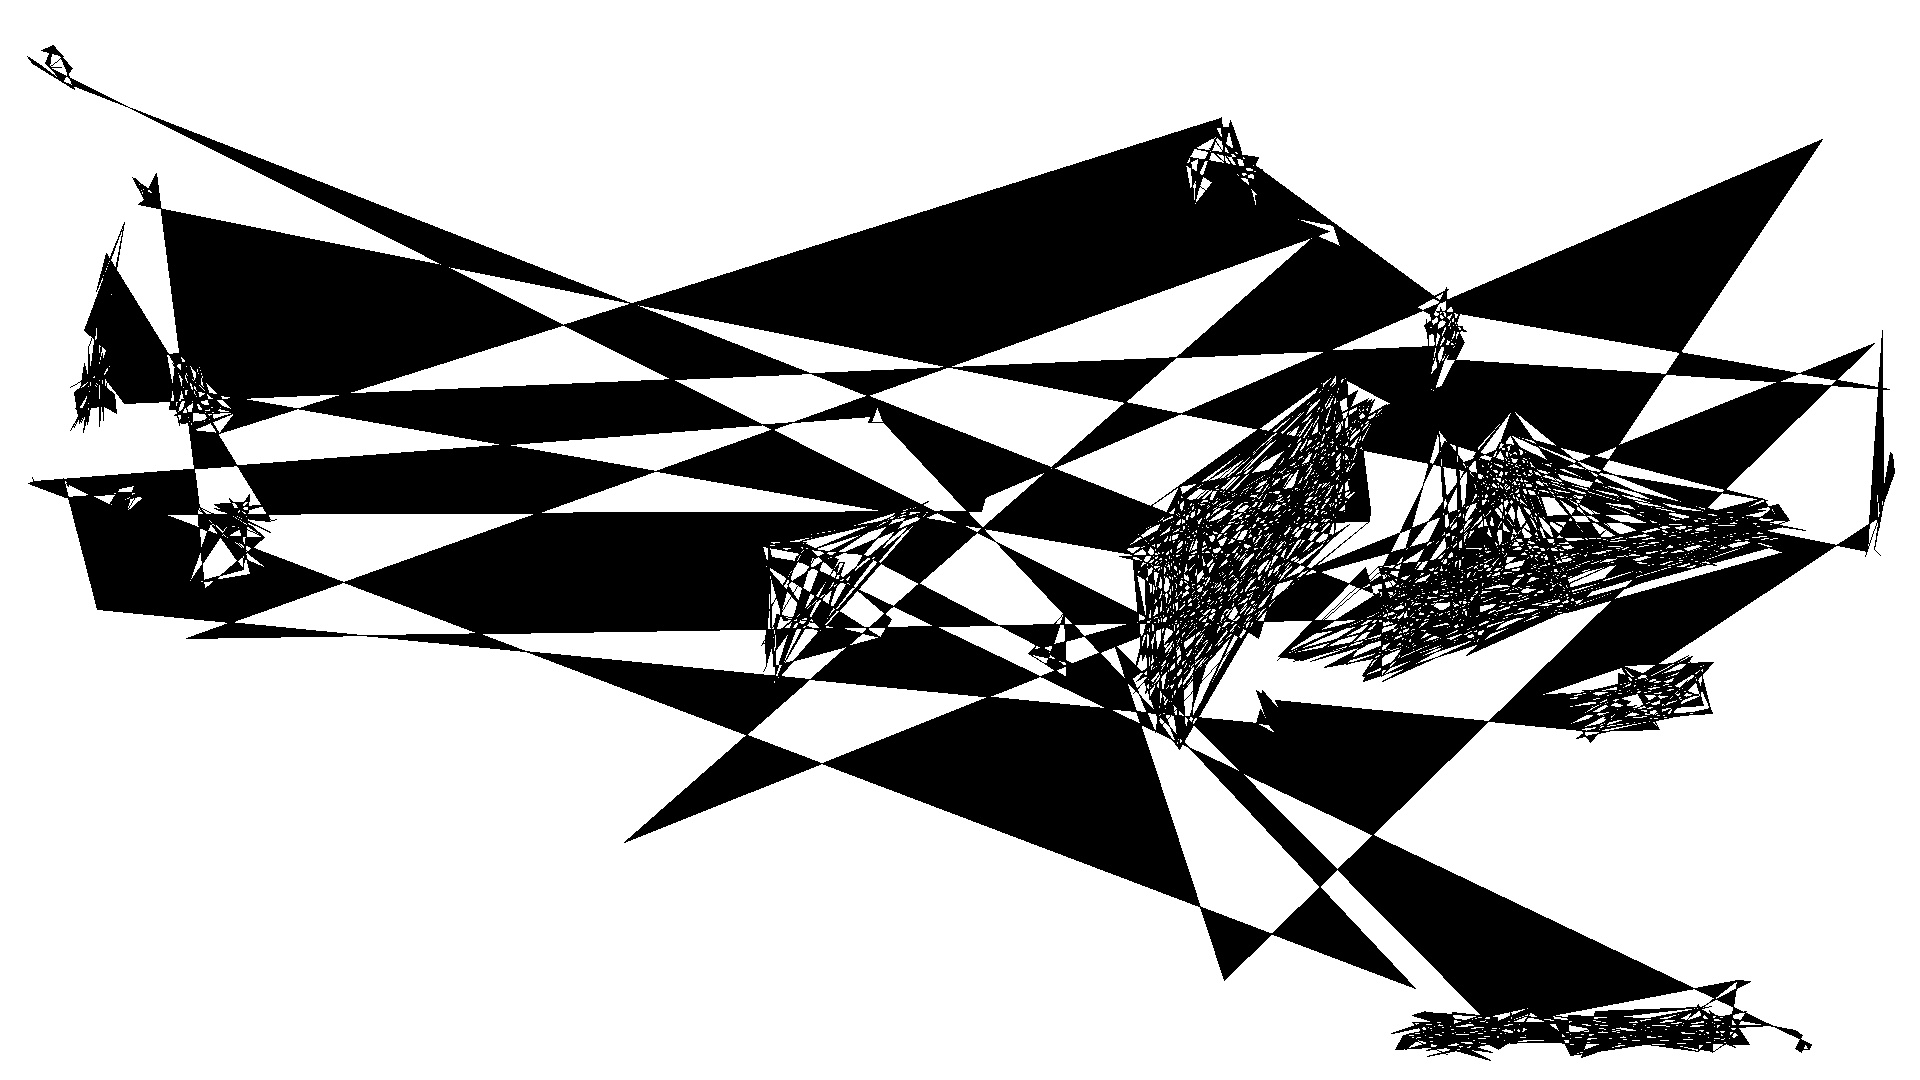
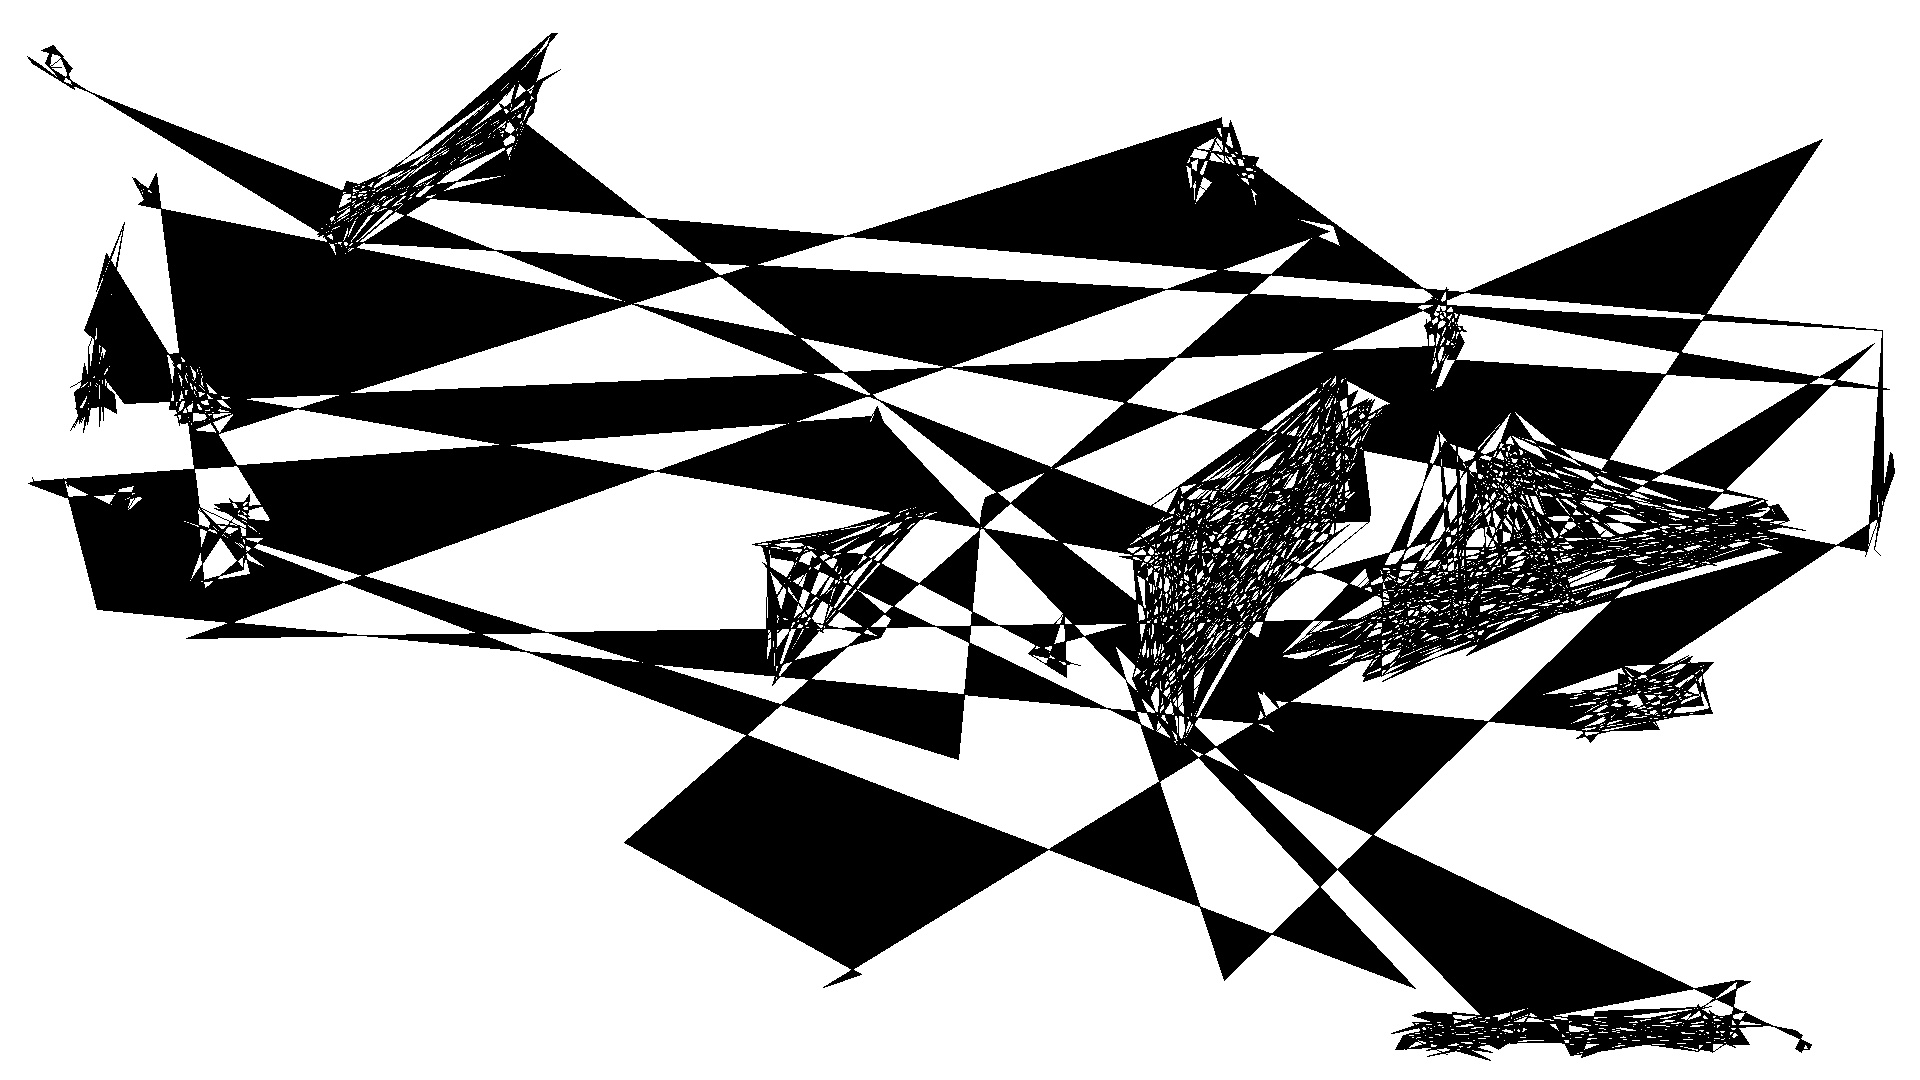
borders

Changed region(s): [[0.0625, 0.0306, 0.9688, 0.9167]]

diff --git a/Common_Image_Part_A/testofBoundery.py b/Common_Image_Part_A/testofBoundery.py
@@ -115,72 +115,139 @@ def croppedmatchingareas(clientimagepath, goodclustersarray):
 
 from functions import DB_SCAN
 
+def function():
+    img=cv2.imread("115.jpg")
+    # Constructing the input point data
+    images = np.array(img)
+    img1 = cv2.cvtColor(images, cv2.COLOR_BGR2GRAY)
+    # Initiate SIFT detector
+    surf = cv2.xfeatures2d.SURF_create()
+    # find the keypoints and descriptors with SIFT
+    kp1, des1 = surf.detectAndCompute(img1, None)
+    clusters = DB_SCAN(kp1,20)
+    x=[]
+    y=[]
 
-img=cv2.imread("115.jpg")
-# Constructing the input point data
-images = np.array(img)
-img1 = cv2.cvtColor(images, cv2.COLOR_BGR2GRAY)
-# Initiate SIFT detector
-surf = cv2.xfeatures2d.SURF_create()
-# find the keypoints and descriptors with SIFT
-kp1, des1 = surf.detectAndCompute(img1, None)
-clusters = DB_SCAN(kp1,20)
-x=[]
-y=[]
-
-for i in clusters[3]:
-    for j in i:
-        x=np.append(x,i[0])
-        y = np.append(y, i[1])
-
-
-inside = ((x ** 2 + y ** 2 > 1.0) & ((x - 3) ** 2 + y ** 2 > 1.0))
-points = np.vstack([x[inside], y[inside]]).T
-#print(points)
-# Computing the alpha shape
-edges = alpha_shape(points, alpha=16, only_outer=True)
-
-ed=stitch_boundaries(edges)
-
-'''
-from matplotlib.pyplot import *
-
-# Constructing the input point data
-np.random.seed(0)
-x = 3.0 * np.random.rand(2000)
-y = 2.0 * np.random.rand(2000) - 1.0
-inside = ((x ** 2 + y ** 2 > 1.0) & ((x - 3) ** 2 + y ** 2 > 1.0))
-points = np.vstack([x[inside], y[inside]]).T
-
-# Computing the alpha shape
-edges = alpha_shape(points, alpha=0.25, only_outer=True)
-'''
-# Plotting the output
-figure()
-axis('equal')
-plot(points[:, 0], points[:, 1], '.')
-for i, j in edges:
-    plot(points[[i, j], 0], points[[i, j], 1])
-show()
+    for i in clusters:
+        for j in i:
+            x=np.append(x,j[0])
+            y = np.append(y, j[1])
 
 
-# original image
-# -1 loads as-is so if it will be 3 or 4 channel as the original
-image = cv2.imread('115.jpg', -1)
-# mask defaulting to black for 3-channel and transparent for 4-channel
-# (of course replace corners with yours)
-mask = np.zeros(image.shape, dtype=np.uint8)
-print(ed[0])
+    inside = ((x ** 2 + y ** 2 > 1.0) & ((x - 3) ** 2 + y ** 2 > 1.0))
+    points = np.vstack([x[inside], y[inside]]).T
+    #print(points)
+    # Computing the alpha shape
+    edges = alpha_shape(points, alpha=20, only_outer=True)
 
-roi_corners = np.array([ed[0]], dtype=np.int32)
-# fill the ROI so it doesn't get wiped out when the mask is applied
-channel_count = image.shape[2]  # i.e. 3 or 4 depending on your image
-ignore_mask_color = (255,)*channel_count
-cv2.fillPoly(mask, roi_corners, ignore_mask_color)
-# from Masterfool: use cv2.fillConvexPoly if you know it's convex
+    ed=stitch_boundaries(edges)
 
-# apply the mask
-masked_image = cv2.bitwise_and(image, mask)
+    '''
+    from matplotlib.pyplot import *
+    
+    # Constructing the input point data
+    np.random.seed(0)
+    x = 3.0 * np.random.rand(2000)
+    y = 2.0 * np.random.rand(2000) - 1.0
+    inside = ((x ** 2 + y ** 2 > 1.0) & ((x - 3) ** 2 + y ** 2 > 1.0))
+    points = np.vstack([x[inside], y[inside]]).T
+    
+    # Computing the alpha shape
+    edges = alpha_shape(points, alpha=0.25, only_outer=True)
+    '''
+    # Plotting the output
+    figure()
+    axis('equal')
+    plot(points[:, 0], points[:, 1], '.')
+    for i, j in edges:
+        plot(points[[i, j], 0], points[[i, j], 1])
+    show()
 
-# save the result
-cv2.imwrite('image_masked.png', masked_image)
+
+    # original image
+    # -1 loads as-is so if it will be 3 or 4 channel as the original
+    image = cv2.imread('cropped.jpg', -1)
+    # mask defaulting to black for 3-channel and transparent for 4-channel
+    # (of course replace corners with yours)
+    mask = np.zeros(image.shape, dtype=np.uint8)
+    print(ed[0])
+
+    roi_corners = np.array([ed[0]], dtype=np.int32)
+    # fill the ROI so it doesn't get wiped out when the mask is applied
+    channel_count = image.shape[2]  # i.e. 3 or 4 depending on your image
+    ignore_mask_color = (255,)*channel_count
+    cv2.fillPoly(mask, roi_corners, ignore_mask_color)
+    # from Masterfool: use cv2.fillConvexPoly if you know it's convex
+
+    # apply the mask
+    masked_image = cv2.bitwise_and(image, mask)
+
+    # save the result
+    cv2.imwrite('image_masked2.jpg', masked_image)
+
+def function2(clusters1):
+    #img = cv2.imread("100.jpg")
+    # Constructing the input point data
+    #images = np.array(img)
+    #img1 = cv2.cvtColor(images, cv2.COLOR_BGR2GRAY)
+    # Initiate SIFT detector
+    #surf = cv2.xfeatures2d.SURF_create()
+    # find the keypoints and descriptors with SIFT
+    #kp1, des1 = surf.detectAndCompute(img1, None)
+    clusters = clusters1
+    x = []
+    y = []
+
+    for i in clusters:
+        for j in i:
+            x = np.append(x, j[0])
+            y = np.append(y, j[1])
+
+    inside = ((x ** 2 + y ** 2 > 1.0) & ((x - 3) ** 2 + y ** 2 > 1.0))
+    points = np.vstack([x[inside], y[inside]]).T
+    # print(points)
+    # Computing the alpha shape
+    edges = alpha_shape(points, alpha=20, only_outer=True)
+    ed = stitch_boundaries(edges)
+    '''
+    from matplotlib.pyplot import *
+
+    # Constructing the input point data
+    np.random.seed(0)
+    x = 3.0 * np.random.rand(2000)
+    y = 2.0 * np.random.rand(2000) - 1.0
+    inside = ((x ** 2 + y ** 2 > 1.0) & ((x - 3) ** 2 + y ** 2 > 1.0))
+    points = np.vstack([x[inside], y[inside]]).T
+
+    # Computing the alpha shape
+    edges = alpha_shape(points, alpha=0.25, only_outer=True)
+    '''
+    # Plotting the output
+    figure()
+    axis('equal')
+    plot(points[:, 0], points[:, 1], '.')
+    for i, j in edges:
+        plot(points[[i, j], 0], points[[i, j], 1])
+    show()
+
+    # original image
+    # -1 loads as-is so if it will be 3 or 4 channel as the original
+    image = cv2.imread('115.jpg', -1)
+    # mask defaulting to black for 3-channel and transparent for 4-channel
+    # (of course replace corners with yours)
+    mask = np.zeros(image.shape, dtype=np.uint8)
+    print(ed[0])
+
+    roi_corners = np.array([ed[0]], dtype=np.int32)
+    # fill the ROI so it doesn't get wiped out when the mask is applied
+    channel_count = image.shape[2]  # i.e. 3 or 4 depending on your image
+    ignore_mask_color = (255,) * channel_count
+    cv2.fillPoly(mask, roi_corners, ignore_mask_color)
+    # from Masterfool: use cv2.fillConvexPoly if you know it's convex
+
+    # apply the mask
+    masked_image = cv2.bitwise_and(image, mask)
+
+    # save the result
+    cv2.imwrite('image_masked2.jpg', masked_image)
+    return masked_image

diff --git a/Common_Image_Part_A/FOTFlib.py b/Common_Image_Part_A/FOTFlib.py
@@ -27,10 +27,10 @@ from align.align import *
 from functions import *
 from matplotlib.pyplot import *
 from scipy.spatial import Delaunay
-
+from testofBoundery import function2
 from scipy.spatial import Delaunay
 #MAIN
-threshold=0.25
+threshold=0.15
 #server side:
 # getting big image array, splitting to smaller arrays
 # and then, for each array do the following
@@ -72,32 +72,38 @@ image=cv2.imread("115.jpg")
 imReg, h = alignImages( image,newSortedArrayimg[len(newSortedArrayimg)-1])
 #for each cluster, if found in camera image, take it off from cameras image:
 arrayOfGoodclusters=makegoodclusters(clusters,dictionary,imReg,threshold)
-croppedimage= croppedmatchingareas(image,arrayOfGoodclusters)
-img=cv2.imread("115.jpg")
+#croppedimage=function2(arrayOfGoodclusters)
+
+#croppedimage= croppedmatchingareas(image,arrayOfGoodclusters)
+#img=cv2.imread("115.jpg")
 # Constructing the input point data
 
-'''
+
 #arrayOfGoodclusters=makegoodclusters(clusters,dictionary,image,threshold)
 print("Number of good clusters: ",len(arrayOfGoodclusters))
 # drop the areas of clusters found in the client image that match the server image
 croppedimage=makecroppedimage(arrayOfGoodclusters,imReg)
 #croppedimage=makecroppedimage(arrayOfGoodclusters,imReg)
 cv2.imwrite('cropped.jpg', croppedimage)
-'''
+
+
+
+
 
 print("CROPPED ! GO CHECK IT OUT !")
-#Newclusters,Newdictionary = clustersOfCroppedImage(croppedimage)
-
 Newclusters,Newdictionary = clustersOfCroppedImage(croppedimage)
 
 #take out the new clusters in order to send
 
-#newimage=makecroppedimage(Newclusters,croppedimage)
-newimage=croppedmatchingareas(croppedimage,Newclusters)
+newimage=makecroppedimage(Newclusters,croppedimage)
+#newimage=croppedmatchingareas(croppedimage,Newclusters)
 cv2.imwrite('clusters_of_cropped.jpg', newimage)
 
 cv2.imwrite('clusters_to_send.jpg', croppedimage-newimage)
 
+
+'''
+'''
 
 '''
 src = cv2.imread('clusters_to_send.jpg', 1)
